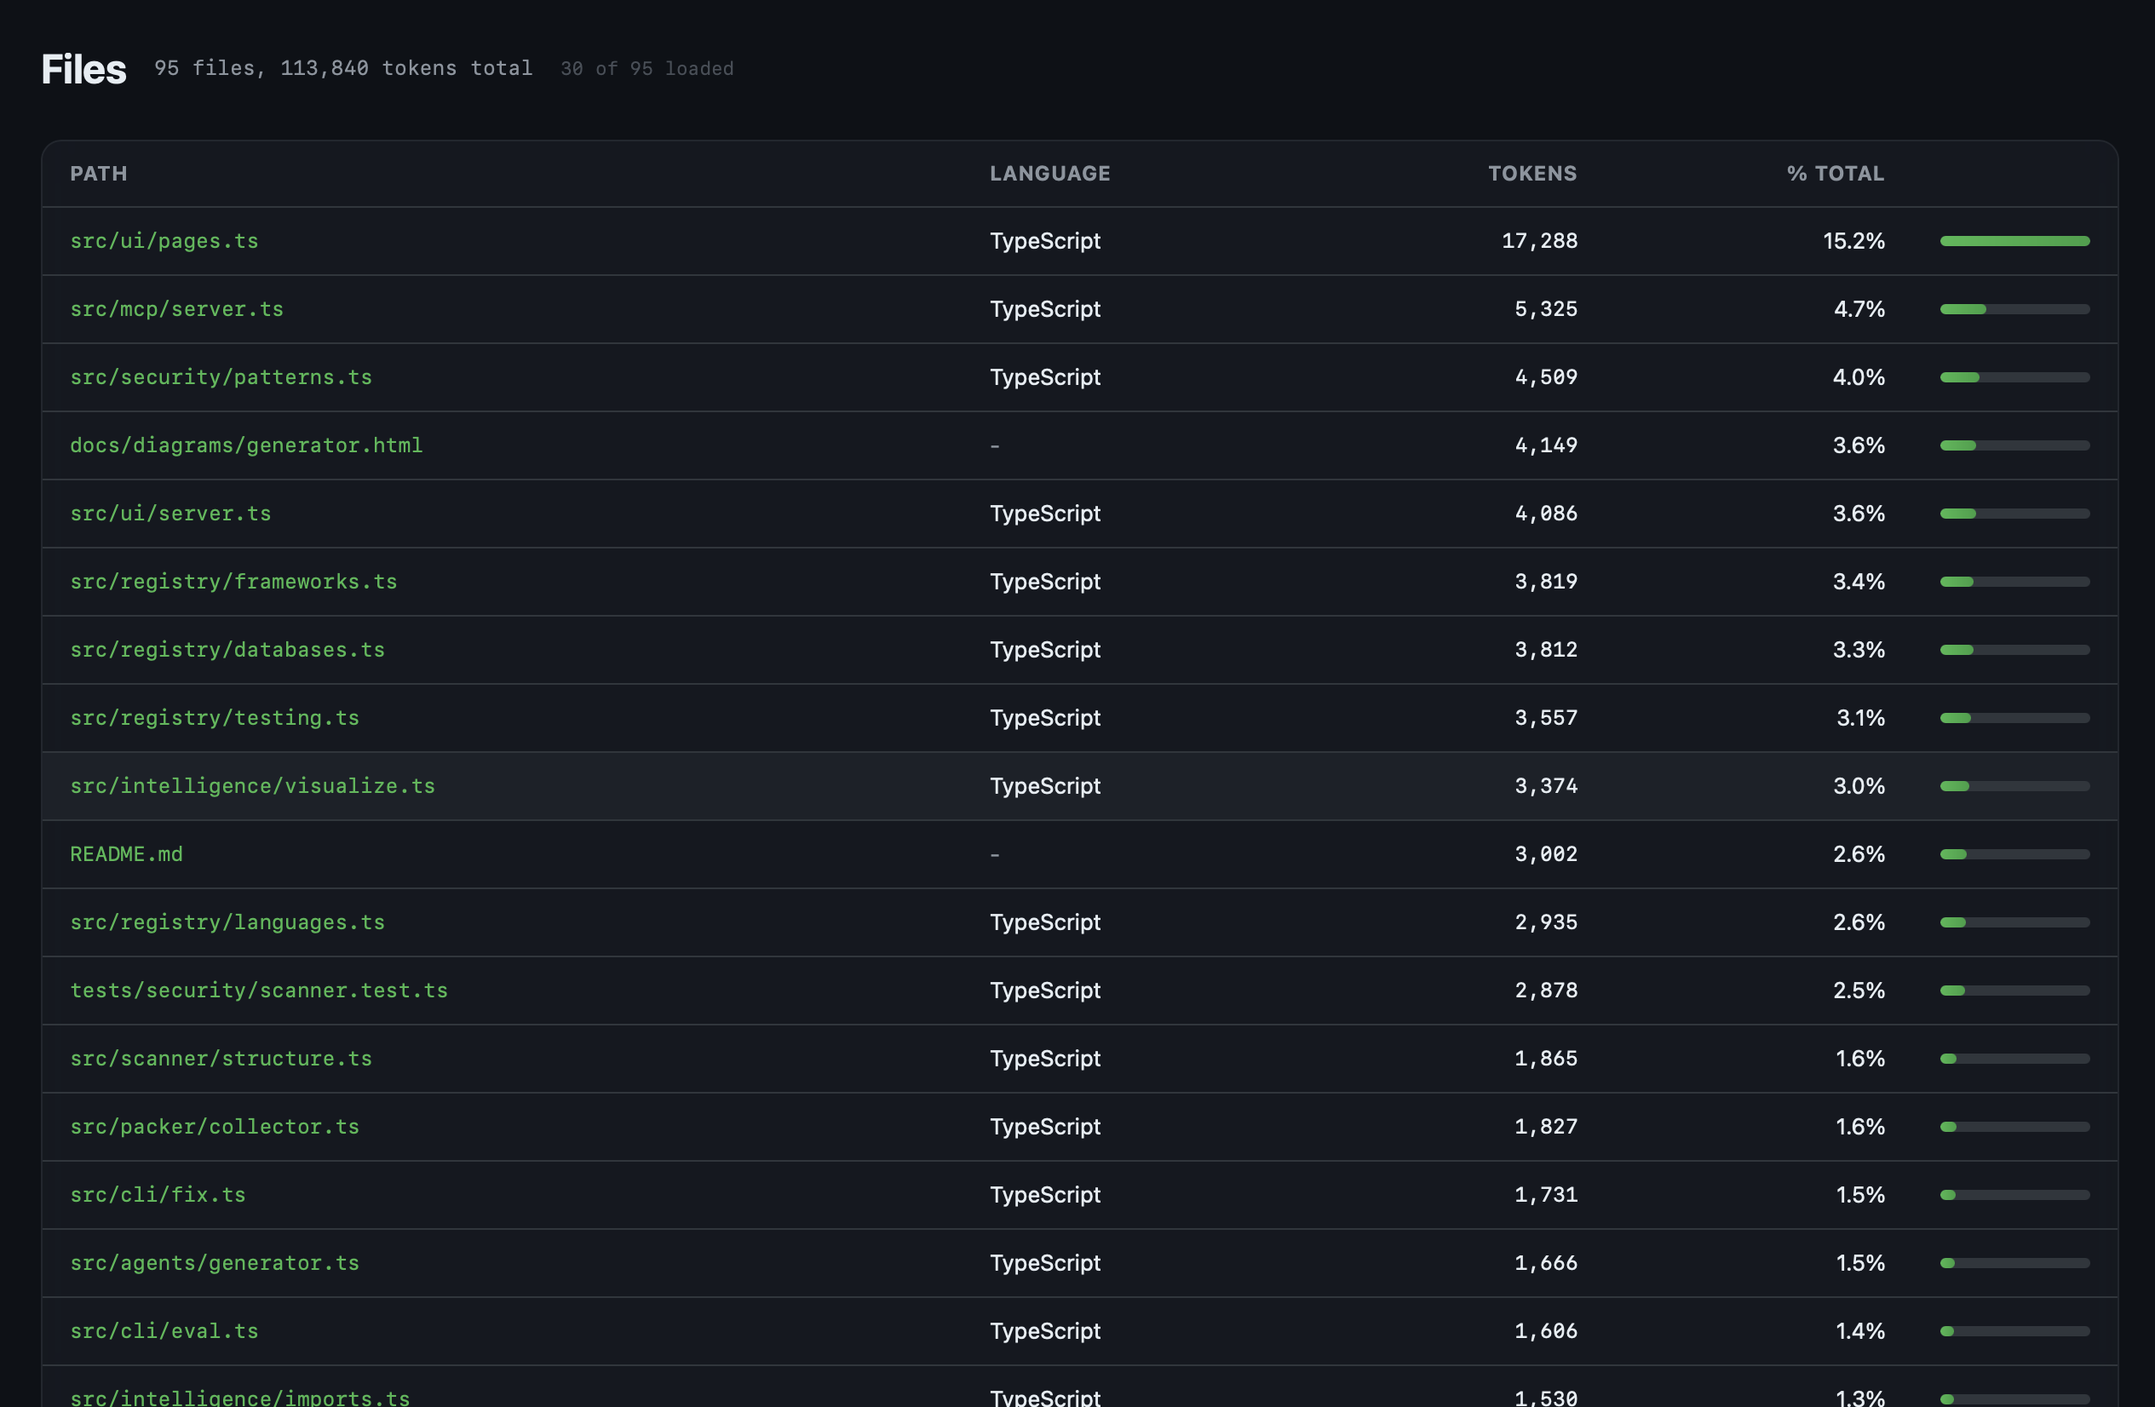
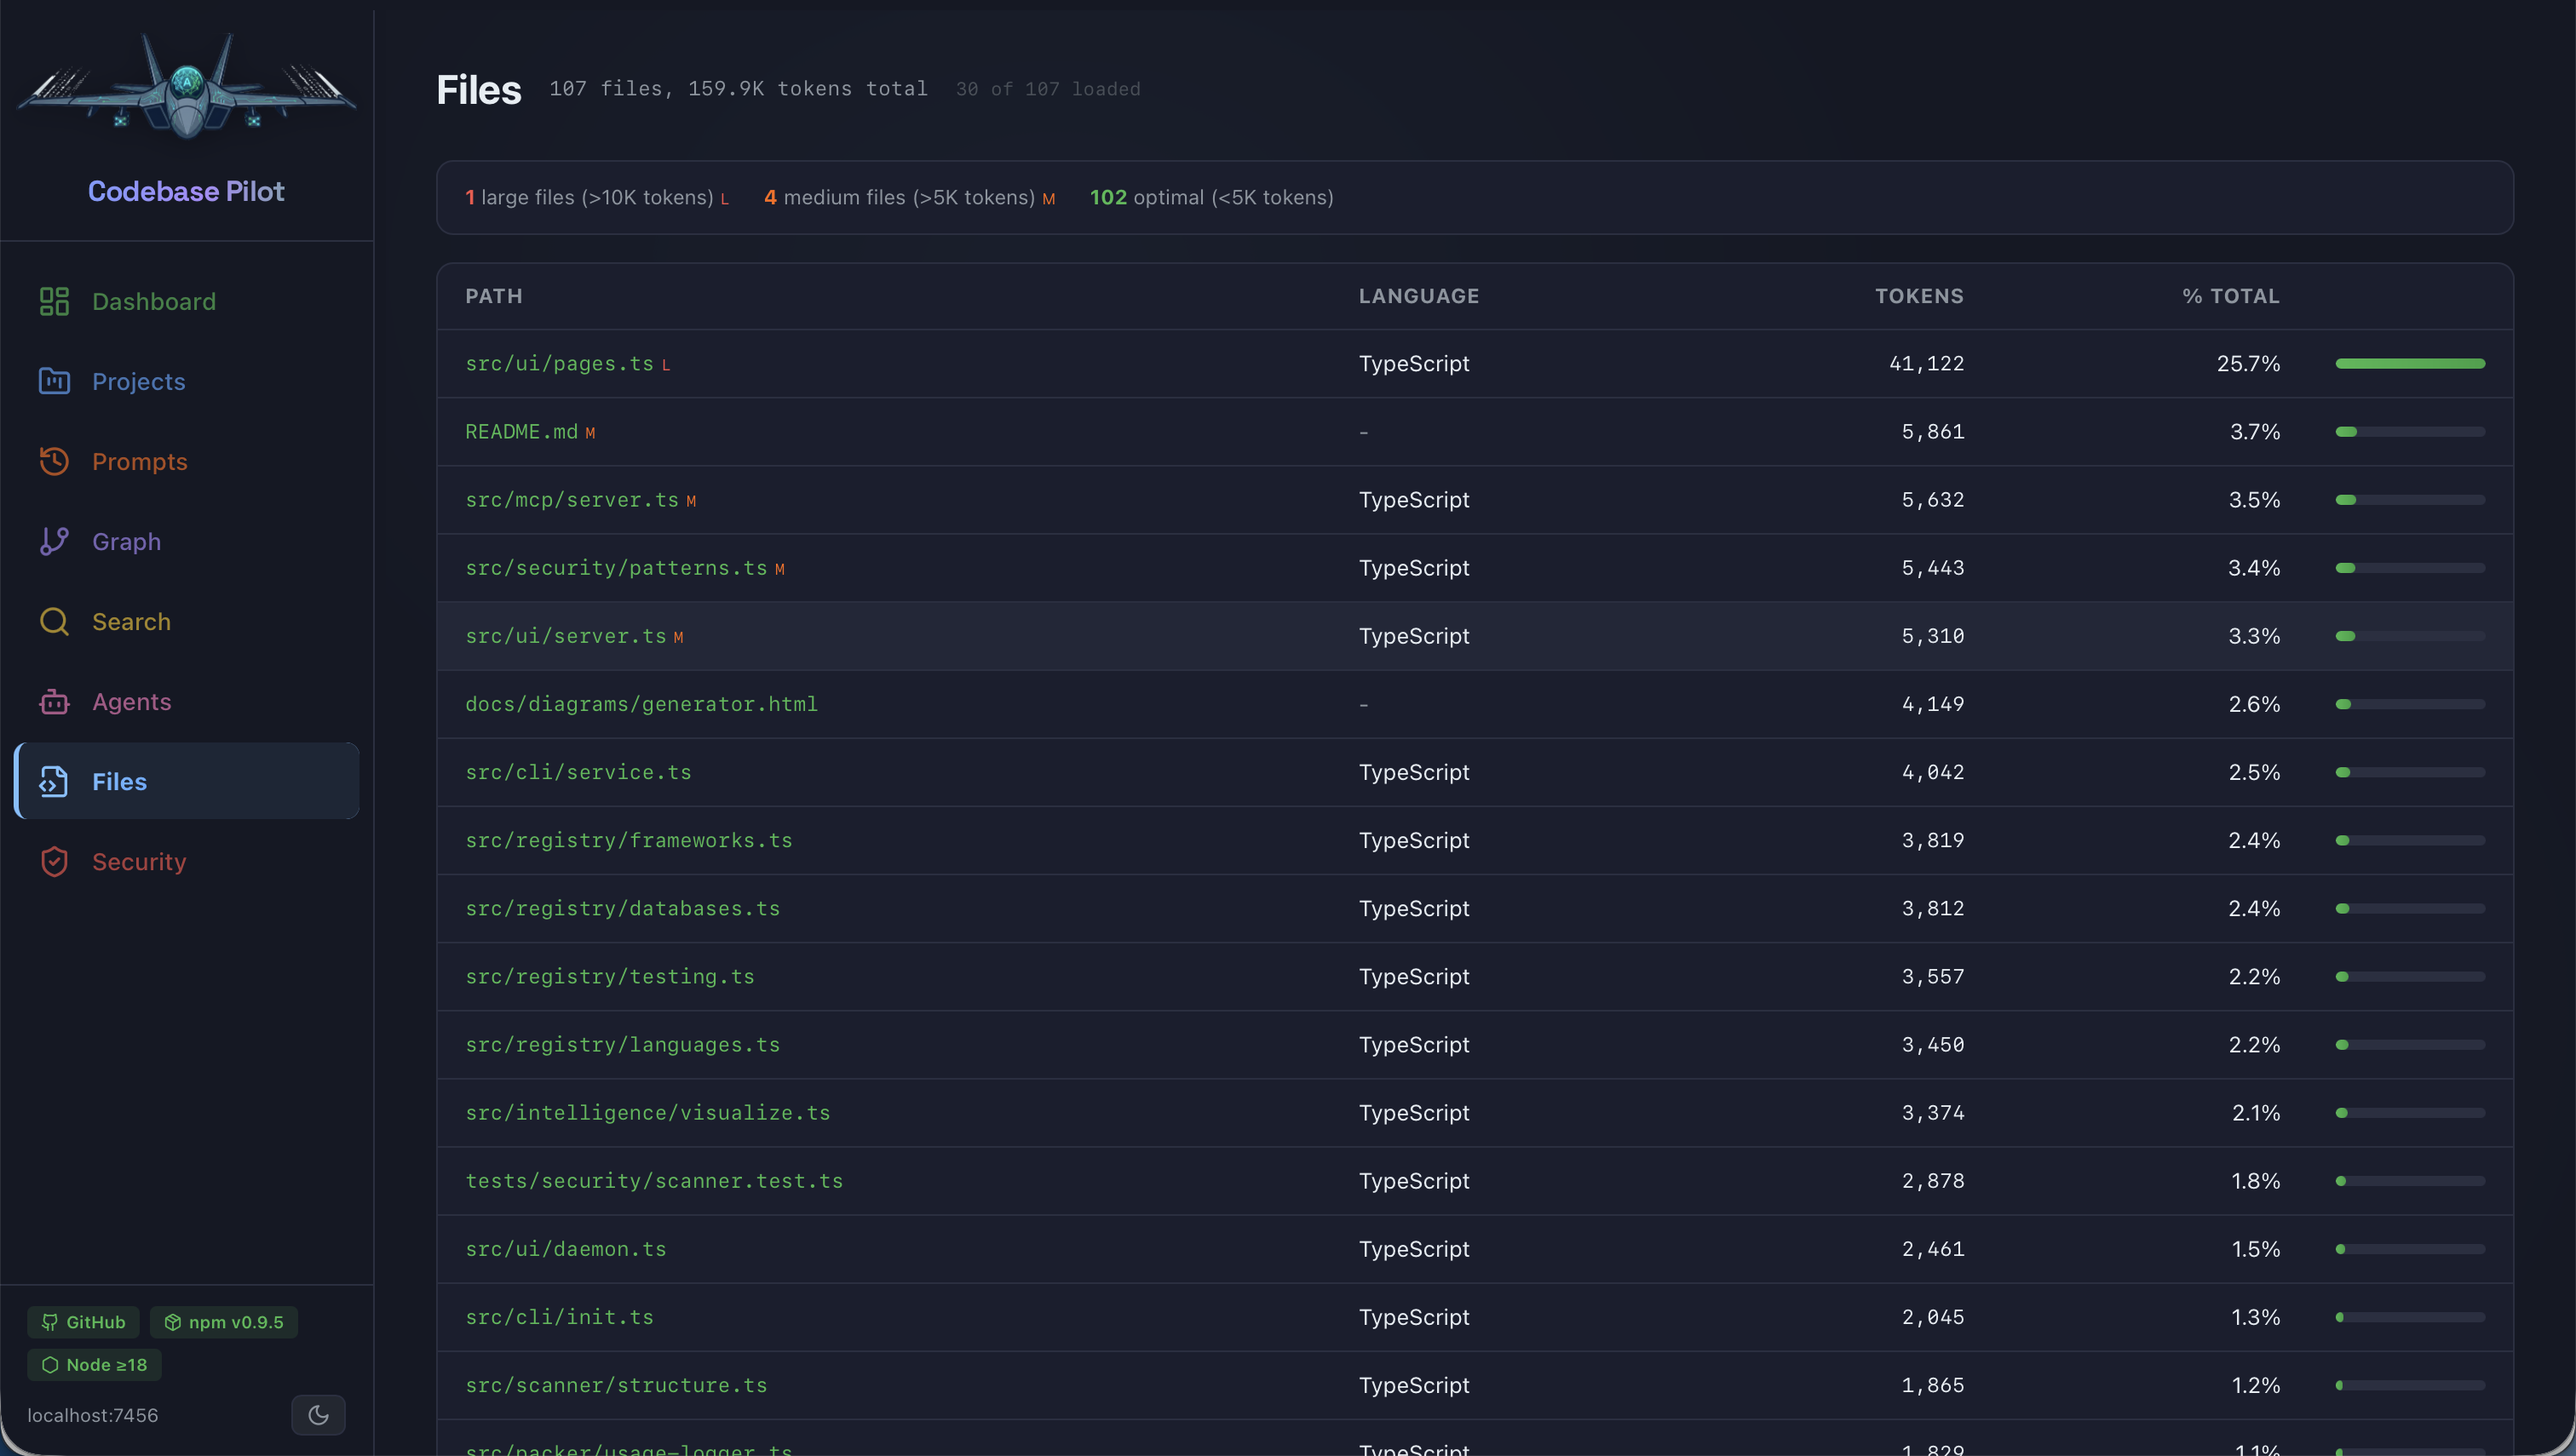
docs: fresh v0.9.7 screenshots + updated README
Screenshots (all 8 pages, fresh from v0.9.6 UI):
- dashboard.png — health score, sparklines, trend chart, suggestions
- prompts.png — user prompts + sessions with git context (NEW)
- projects.png — comparison chart, efficiency bars
- graph.png — D3.js with stats overlay
- search.png — BM25 search with tips
- agents.png — model cost indicators, layer architecture
- files.png — size warnings (L/M badges)
- security.png — 97% health score, risk distribution

README updates:
- How It Works: pipeline table with token/cost numbers
- Token Savings: real CLI output with $ amounts
- All 8 dashboard page descriptions updated for v0.9.x features
- Added Prompts page screenshot (was missing)

diff --git a/README.md b/README.md
@@ -122,74 +122,44 @@ codebase-pilot service   # auto-starts on login, tracks forever
 
 ## How It Works
 
-<table>
-<tr>
-<td width="50%">
+```
+Your Codebase → scan → detect → pack → compress → security scan → AI-ready output
+   150K tokens                                              → 41K tokens (~$0.12/prompt)
+```
 
-**Architecture Pipeline**
+**The Pipeline:**
 
-Your codebase goes through scan → detect → pack → compress → security scan → output. 98K tokens becomes 7K.
+| Step | What happens | Impact |
+|------|-------------|--------|
+| **Scan** | Detect languages, frameworks, databases, test runners | 76 languages, 58 frameworks |
+| **Pack** | Collect files, apply agent scoping, format as XML/MD | Structured AI context |
+| **Compress** | Keep signatures, fold function bodies | 70% token reduction |
+| **Security** | 180 pattern secret scan, auto-exclude detected files | Zero leaked credentials |
+| **`--affected`** | SHA-256 hash — only pack changed files | 95%+ savings on iterations |
+| **`--prune`** | Import graph traversal — minimum viable context | Only files that matter |
 
-<img src="https://raw.githubusercontent.com/kalpeshgamit/codebase-pilot/main/docs/diagrams/pipeline.png" alt="How codebase-pilot works" width="100%" />
-
-</td>
-<td width="50%">
-
-**Token Savings**
-
-Compression alone saves 70%. Add agent scoping for 93% reduction.
-
-<img src="https://raw.githubusercontent.com/kalpeshgamit/codebase-pilot/main/docs/diagrams/savings.png" alt="Token savings comparison" width="100%" />
-
-</td>
-</tr>
-<tr>
-<td width="50%">
-
-**Blast Radius Analysis**
-
-Change a file → see every dependent, transitive import, and affected test. Risk scored 0–100.
-
-<img src="https://raw.githubusercontent.com/kalpeshgamit/codebase-pilot/main/docs/diagrams/blast-radius.png" alt="Blast radius analysis" width="100%" />
-
-</td>
-<td width="50%">
-
-**Agent Layer Architecture**
-
-7 layers — haiku for extraction, sonnet for implementation, opus for review gates.
-
-<img src="https://raw.githubusercontent.com/kalpeshgamit/codebase-pilot/main/docs/diagrams/agent-layers.png" alt="Agent layer architecture" width="100%" />
-
-</td>
-</tr>
-<tr>
-<td colspan="2">
-
-**Multi-Platform Support** — one command generates configs for Claude Code, Cursor, Windsurf, and OpenAI Codex.
-
-<img src="https://raw.githubusercontent.com/kalpeshgamit/codebase-pilot/main/docs/diagrams/platforms.png" alt="Multi-platform support" width="100%" />
-
-</td>
-</tr>
-</table>
+**Result:** 150K tokens → 41K packed → **$0.12/prompt instead of $0.45** (saves $0.33 per prompt, ~$36/week for active use).
 
 ---
 
 ## Token Savings
 
-The `tokens` command tracks your actual savings over time:
+```bash
+codebase-pilot pack --compress
 
+  Files:    104 packed
+  Tokens:   ~41,496 (compressed from ~150,810, 72% reduction)
+  Cost:     ~$0.12 per prompt (saved ~$0.33)
 ```
-  Savings estimate (per session):
-    Without codebase-pilot:   ~98,798 tokens
-    With pack --compress:      ~29,274 tokens
-    Pilot saves:              ~69,524 tokens per session
 
-  Your savings (from pack runs):
-    Today:      3 sessions  — ~92,232 tokens saved
-    This week:  5 sessions  — ~147,498 tokens saved
+```bash
+codebase-pilot compare
+
+  Token impact: +16,845 tokens (+$0.05 per prompt)
+  Total now:    156,334 tokens (~$0.47/prompt)
 ```
+
+The dashboard tracks savings over time: `$36.25 saved this week` — real dollars, not abstract tokens.
 
 ---
 
@@ -224,40 +194,42 @@ codebase-pilot service --uninstall
 Open the dashboard days or weeks later — all your token history is already there.
 
 ### Dashboard
-Live stat cards (K/M/B abbreviated), savings chart, recent sessions — auto-updates via WebSocket.
+Health score, sparklines, 7-day trend chart, $ cost, smart suggestions — dark navy theme with animated gradient branding.
 
 <img src="https://raw.githubusercontent.com/kalpeshgamit/codebase-pilot/main/docs/screenshots/dashboard.png" alt="Dashboard" width="100%" />
 
-### Prompts (All Sessions)
-User prompts from Claude Code + pack sessions with git context (branch, commit, dirty files). Click any row for detail drawer with token breakdown + savings bar.
+### Prompts
+User prompts from Claude Code (via hooks) + all pack sessions with git context (branch, commit, dirty files). Click any row for detail drawer.
 
-### Projects (System-Wide)
-All projects in one view — sessions, tokens saved, efficiency per project.
+<img src="https://raw.githubusercontent.com/kalpeshgamit/codebase-pilot/main/docs/screenshots/prompts.png" alt="Prompts" width="100%" />
+
+### Projects
+Cross-project comparison chart, efficiency progress bars, savings by project. System-wide token tracking.
 
 <img src="https://raw.githubusercontent.com/kalpeshgamit/codebase-pilot/main/docs/screenshots/projects.png" alt="Projects" width="100%" />
 
 ### Import Graph
-Interactive D3.js force-directed graph. Nodes sized by tokens, colored by module. Drag, zoom, search.
+Interactive D3.js force-directed graph with stats overlay (nodes, edges, directories). Click nodes for blast radius.
 
 <img src="https://raw.githubusercontent.com/kalpeshgamit/codebase-pilot/main/docs/screenshots/graph.png" alt="Import Graph" width="100%" />
 
 ### Search
-Full-text search with BM25 ranking. Highlighted matches with file path + line number.
+Full-text BM25 search with quick-search tips, result count badge, highlighted matches with file path + line number.
 
 <img src="https://raw.githubusercontent.com/kalpeshgamit/codebase-pilot/main/docs/screenshots/search.png" alt="Search" width="100%" />
 
 ### Agents
-Layer architecture, model assignment, context paths, dependencies.
+Summary stats with model cost indicators (Haiku $, Opus $$$$), layer architecture, agent cards with context paths.
 
 <img src="https://raw.githubusercontent.com/kalpeshgamit/codebase-pilot/main/docs/screenshots/agents.png" alt="Agents" width="100%" />
 
 ### Files
-All files with token counts, language tags, percentage of total.
+File size warnings (red L >10K, orange M >5K tokens), language distribution, per-file token breakdown with lazy loading.
 
 <img src="https://raw.githubusercontent.com/kalpeshgamit/codebase-pilot/main/docs/screenshots/files.png" alt="Files" width="100%" />
 
 ### Security
-Pattern categories, risk levels, detected secrets — side by side.
+97% health score badge, risk distribution chart (critical/high/medium/low), pattern categories, detected secrets with drawer.
 
 <img src="https://raw.githubusercontent.com/kalpeshgamit/codebase-pilot/main/docs/screenshots/security.png" alt="Security" width="100%" />
 
